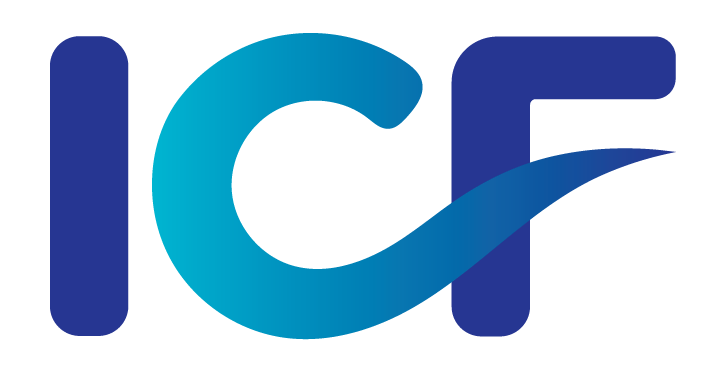
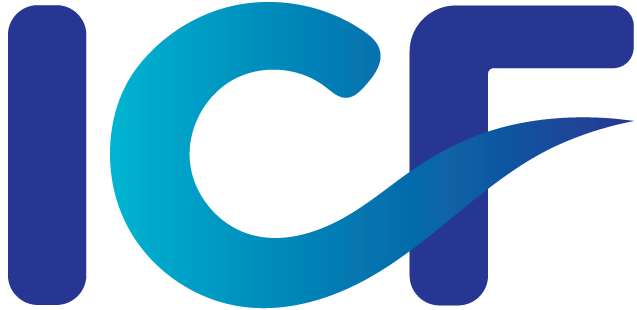
txt sec updt

diff --git a/js/main.js b/js/main.js
@@ -1,3 +1,47 @@
+  // Read more btn 
+  function moreFunction() {
+    var ellipsis = document.getElementById("ellipsis");
+    var moreText = document.getElementById("more");
+    var btnText = document.getElementById("moreBtn");
+  
+    if (ellipsis.style.display === "none") {
+      ellipsis.style.display = "inline";
+      btnText.innerHTML = "Read more";
+      moreText.style.display = "none";
+    } else {
+      ellipsis.style.display = "none";
+      btnText.innerHTML = "Read less";
+      moreText.style.display = "block";
+    }
+  }
+
+
+
+/* ---------- NAV --------- */
+  /* Mobile menu */
+
+  /* When clicked, hide/show dropdown content */
+  function myFunction() {
+    document.getElementById("myDropdown").classList.toggle("show");
+  }
+
+  /* Close  dropdown if clicked outside */
+  window.onclick = function(event) {
+    if (!event.target.matches('.fa')) {
+      var dropdowns = document.getElementsByClassName("dropdown-content");
+      var i;
+      for (i = 0; i < dropdowns.length; i++) {
+        var openDropdown = dropdowns[i];
+        if (openDropdown.classList.contains('show')) {
+          openDropdown.classList.remove('show');
+        }
+      }
+    }
+  }
+
+
+
+
   // ---------- LANG SWITCH ---------- //
   //     /* When clicked, hide/show dropdown content */
   // function langSwitch() {
@@ -95,46 +139,3 @@
   //               location.reload();
   //           }, 100);
   //       }
-
-  // Read more btn 
-  function moreFunction() {
-    var ellipsis = document.getElementById("ellipsis");
-    var moreText = document.getElementById("more");
-    var btnText = document.getElementById("moreBtn");
-  
-    if (ellipsis.style.display === "none") {
-      ellipsis.style.display = "inline";
-      btnText.innerHTML = "Read more";
-      moreText.style.display = "none";
-    } else {
-      ellipsis.style.display = "none";
-      btnText.innerHTML = "Read less";
-      moreText.style.display = "inline";
-    }
-  }
-
-
-
-/* ---------- NAV --------- */
-  /* Mobile menu */
-
-  /* When clicked, hide/show dropdown content */
-  function myFunction() {
-    document.getElementById("myDropdown").classList.toggle("show");
-  }
-
-  /* Close  dropdown if clicked outside */
-  window.onclick = function(event) {
-    if (!event.target.matches('.fa')) {
-      var dropdowns = document.getElementsByClassName("dropdown-content");
-      var i;
-      for (i = 0; i < dropdowns.length; i++) {
-        var openDropdown = dropdowns[i];
-        if (openDropdown.classList.contains('show')) {
-          openDropdown.classList.remove('show');
-        }
-      }
-    }
-  }
-
-

diff --git a/index.html b/index.html
@@ -80,26 +80,24 @@
                         I continuously develop my coaching skills to uphold my certification. <br><br>
                         ICF is the world's largest organization leading the global advancement, of the coaching profession and fostering coaching's role as an integral part of 
                         a thriving society. <br>
-                        </p>
 
                         <div class="ifc">
-                            <div class="ifclogo"></div> 
-                            <a href="https://coachingfederation.org/" target="_blank">International Coaching Federation <div class="link-icon"></div></a>
+                            <div class="ifc-logo"></div> 
+                            <a href="https://coachingfederation.org/" target="_blank" class="ifc-link">International Coaching Federation <div class="link-icon"></div></a>
                         </div>
 
-                        <p>
-                        <span id="ellipsis"></span>
+                        <span id="ellipsis">...</span>
                         <span id="more">
                             Founded in 1995, its 41,000-plus members located in more than 150 countries and territories 
                             work toward common goals of enhancing awareness of coaching and upholding the integrity of the profession through 
                             lifelong learning and the highest ethical standards.
-                        </span><br>
-                        <button onclick="moreFunction()" id="moreBtn">Read more...</button> 
+                        </span>
+                        <button onclick="moreFunction()" id="moreBtn">Read more</button> 
                     </p>
 
-                </div>
-                    <div class="fp-img"></div>
-                </div>
+                    </div>
+                        <div class="fp-img"></div>
+                    </div>
                 
                 </div>
             </div>

diff --git a/style.css b/style.css
@@ -185,7 +185,6 @@ body {
     border: solid violet 0px;
 }
 
-
 .section-text h3 {
     font-family: 'NewsGoth BT', sans-serif;
     font-weight: bold;
@@ -194,25 +193,30 @@ body {
     margin-bottom: -5px;
 }
 
-.section-text a {
-    text-decoration: none;
-    color: #2f1f5d;
-    font-style: italic;
-    font-size: 14px;
-    border: solid green 0px;
-    margin-top: 8px;
+.ifc {
     display: flex;
     flex-direction: row;
+    border: solid green 0px;
+    margin-bottom: 0px;
 }
 
-.ifclogo {
-    background-image: url(img/ICF_PC_icon_FullColor.png);
+.ifc-logo {
+    background-image: url(img/ICF_PC_Icon_FullColor.svg);
     background-size: contain;
     background-repeat: no-repeat;
     background-position: center;
-    height: 18px;
-    width: 40px;
-    float: left;
+    height: 14px;
+    width: 32px;
+    margin-right: 4px;
+}
+
+.ifc-link {
+    text-decoration: none;
+    color: #2f1f5d;
+    /* font-style: italic; */
+    font-size: 14px;
+    border: solid green 0px;
+    display: flex;
 }
 
 .link-icon {
@@ -220,14 +224,16 @@ body {
     background-size: contain;
     background-repeat: no-repeat;
     background-position: center;
-    height: 18px;
-    width: 18px;
-    margin: 0px 5px;
+    height: 14px;
+    width: 14px;
+    margin-top: 2px;
+    margin-left: 4px;
 }
+
 
 #more {
     display: none;
-    margin-top: 50px;
+    margin-top: 5px;
 }
 
 #moreBtn {
@@ -235,9 +241,12 @@ body {
     color: #2f1f5d;
     font-style: italic;
     font-size: 14px;
-    margin-top: 10px;
+    font-weight: 600;
+    padding: 0px;
+    margin-top: 4px;
     border: solid green 0px;
     background-color: transparent;
+    display: block;
 }
 
 
